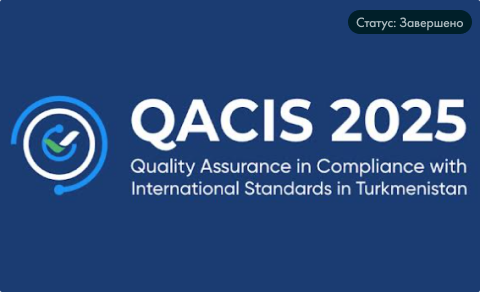
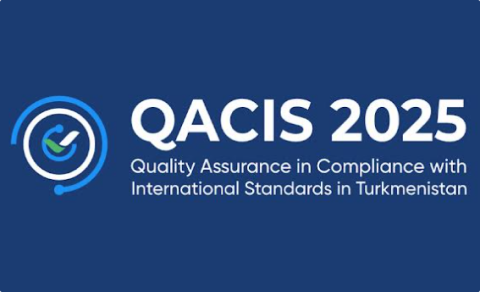
change

Changed region(s): [[0.7188, 0.0308, 1.0, 0.1233]]

diff --git a/src/components/hero/HeroSection.tsx b/src/components/hero/HeroSection.tsx
@@ -1,38 +1,45 @@
-import { useZusLang } from '@/zustand/use-zus-lang';
-import Container from '../global/Container';
-import { sectionsTranslations } from '@/lib/constants';
+import { useZusLang } from "@/zustand/use-zus-lang";
+import Container from "../global/Container";
+import { sectionsTranslations } from "@/lib/constants";
 
 const HeroSection = () => {
   const activeLang = useZusLang().activeLang;
   return (
     <>
-      <section className="hero sm:block hidden bg-hero-img w-full h-[996px]" id="hero">
+      <section
+        className="hero sm:block hidden bg-hero-img w-full h-[996px]"
+        id="hero"
+      >
         <Container>
           <div className="h-[996px] w-full relative flex flex-col justify-end pb-2 gap-2">
             <h1 className="absolute top-1/2 left-1/2 -translate-x-1/2 -translate-y-1/2 max-w-[848px] w-full font-80-medium">
-              {activeLang.value === 'ru'
+              {activeLang.value === "ru"
                 ? sectionsTranslations.ru.hero.title
                 : sectionsTranslations.en.hero.title}
             </h1>
             <div className="flex w-full justify-between items-end">
               <span className="font-14-regular">
-                {activeLang.value === 'ru'
+                {activeLang.value === "ru"
                   ? sectionsTranslations.ru.hero.venue
                   : sectionsTranslations.en.hero.venue}
               </span>
               <span className="font-18-regular max-w-[518px] w-full">
-                {activeLang.value === 'ru'
+                {activeLang.value === "ru"
                   ? sectionsTranslations.ru.hero.moto
                   : sectionsTranslations.en.hero.moto}
               </span>
             </div>
-            <a href="#events" className="flex flex-col items-center justify-center gap-1">
+            <a
+              href="#events"
+              className="flex flex-col items-center justify-center gap-1"
+            >
               <svg
                 width="24"
                 height="24"
                 viewBox="0 0 24 24"
                 fill="none"
-                xmlns="http://www.w3.org/2000/svg">
+                xmlns="http://www.w3.org/2000/svg"
+              >
                 <path
                   fillRule="evenodd"
                   clipRule="evenodd"
@@ -41,7 +48,7 @@ const HeroSection = () => {
                 />
               </svg>
               <span className="text-onAnySurfaceVariant text-[12px] font-medium">
-                {activeLang.value === 'ru'
+                {activeLang.value === "ru"
                   ? sectionsTranslations.ru.hero.btn
                   : sectionsTranslations.en.hero.btn}
               </span>
@@ -53,17 +60,17 @@ const HeroSection = () => {
       <section className=" flex flex-col gap-8 items-center sm:hidden pt-8">
         <div className="flex flex-col gap-4 text-center container">
           <h1 className="font-80-medium">
-            {activeLang.value === 'ru'
+            {activeLang.value === "ru"
               ? sectionsTranslations.ru.hero.title
               : sectionsTranslations.en.hero.title}
           </h1>
           <h4 className="text-[14px]">
-            {activeLang.value === 'ru'
+            {activeLang.value === "ru"
               ? sectionsTranslations.ru.hero.moto
               : sectionsTranslations.en.hero.moto}
           </h4>
           <h5 className="text-[12px] font-medium">
-            {activeLang.value === 'ru'
+            {activeLang.value === "ru"
               ? sectionsTranslations.ru.hero.venue
               : sectionsTranslations.en.hero.venue}
           </h5>

diff --git a/src/components/events/EventCard.tsx b/src/components/events/EventCard.tsx
@@ -10,6 +10,7 @@ interface Props {
   date: string;
   image: string;
   i: number;
+  status: string;
 }
 
 export const EventCard: FC<Props> = ({
@@ -19,6 +20,7 @@ export const EventCard: FC<Props> = ({
   date,
   image,
   i,
+  status,
 }) => {
   const { t } = useTranslation("home");
   const value = useZusLang((state) => state.activeLang.value);
@@ -26,6 +28,8 @@ export const EventCard: FC<Props> = ({
   const { organizersTitle, coOrganizersTitle } = t("events", {
     returnObjects: true,
   }) as { organizersTitle: string; coOrganizersTitle: string };
+
+  const getStatustitle = () => (value === "ru" ? "Статус:" : "Status:");
 
   return (
     <>
@@ -54,10 +58,18 @@ export const EventCard: FC<Props> = ({
                     className="w-full h-full object-contain"
                   />
                 </div>
-              ) : (
+              ) : i === 1 ? (
                 <div className="h-[64px] w-[221px]">
                   <img
                     src="/organizers.png"
+                    alt=""
+                    className="w-full h-full object-contain"
+                  />
+                </div>
+              ) : (
+                <div className="size-[64px]">
+                  <img
+                    src="/events/organizer-2.png"
                     alt=""
                     className="w-full h-full object-contain"
                   />
@@ -84,8 +96,22 @@ export const EventCard: FC<Props> = ({
             alt=""
             className="rounded-[2px] size-full object-contain"
           />
-          <div className="absolute top-2.5 right-2 rounded-full bg-surfaceContainerLow text-sm px-2 py-0.5 text-onAnySurfaceVariant font-medium">
-            {value === "ru" ? "Статус: Завершено" : "Status: Completed"}
+          <div
+            className={cn(
+              "absolute top-2.5 right-2 rounded-full  text-sm px-2 py-0.5  font-medium",
+              status === "soon"
+                ? "bg-gold text-white"
+                : "bg-surfaceContainerLow text-onAnySurfaceVariant"
+            )}
+          >
+            <>{getStatustitle()}</>
+            {status === "completed"
+              ? value === "ru"
+                ? "Завершен"
+                : "Completed"
+              : value === "ru"
+              ? "Скоро"
+              : "Soon"}
           </div>
         </div>
       </article>

diff --git a/src/components/events/EventsSection.tsx b/src/components/events/EventsSection.tsx
@@ -25,17 +25,36 @@ const EventsSection = () => {
 
           <div ref={emblaRef} className="embla">
             <div className="embla__container flex gap-8">
-              {items.map((item, i) => (
-                <div className="flex-[0_0_100%] embla__slide" key={i}>
-                  <EventCard
-                    i={i}
-                    className=""
-                    image={`/events/${i + 1}.png`}
-                    {...item}
+              {items.map((item, i) =>
+                i === 2 ? (
+                  <a
+                    href={"https://tkmchess.com.tm/news/60"}
+                    target="_blank"
+                    className="flex-[0_0_100%] embla__slide cursor-pointer"
                     key={i}
-                  />
-                </div>
-              ))}
+                  >
+                    <EventCard
+                      status="soon"
+                      i={i}
+                      className=""
+                      image={`/events/${i + 1}.png`}
+                      {...item}
+                      key={i}
+                    />
+                  </a>
+                ) : (
+                  <div key={i} className="flex-[0_0_100%] embla__slide">
+                    <EventCard
+                      status="completed"
+                      i={i}
+                      className=""
+                      image={`/events/${i + 1}.png`}
+                      {...item}
+                      key={i}
+                    />
+                  </div>
+                )
+              )}
             </div>
           </div>
         </div>
@@ -43,7 +62,13 @@ const EventsSection = () => {
         <div className="flex sm:hidden flex-col gap-4">
           <h2 className="font-64-regular">{title}</h2>
           {items.map((item, i) => (
-            <EventCard i={i} image={`/events/${i + 1}.png`} {...item} key={i} />
+            <EventCard
+              status="completed"
+              i={i}
+              image={`/events/${i + 1}.png`}
+              {...item}
+              key={i}
+            />
           ))}
         </div>
       </Container>

diff --git a/src/App.tsx b/src/App.tsx
@@ -13,7 +13,9 @@ function App() {
   return (
     <>
       <LanguageSync />
+
       <Header />
+
       <main className="flex flex-col sm:gap-40 gap-20 w-full" id="home">
         <HeroSection />
 
@@ -37,7 +39,6 @@ function App() {
 
         <ContactsSection />
       </main>
-
       <Footer />
     </>
   );
